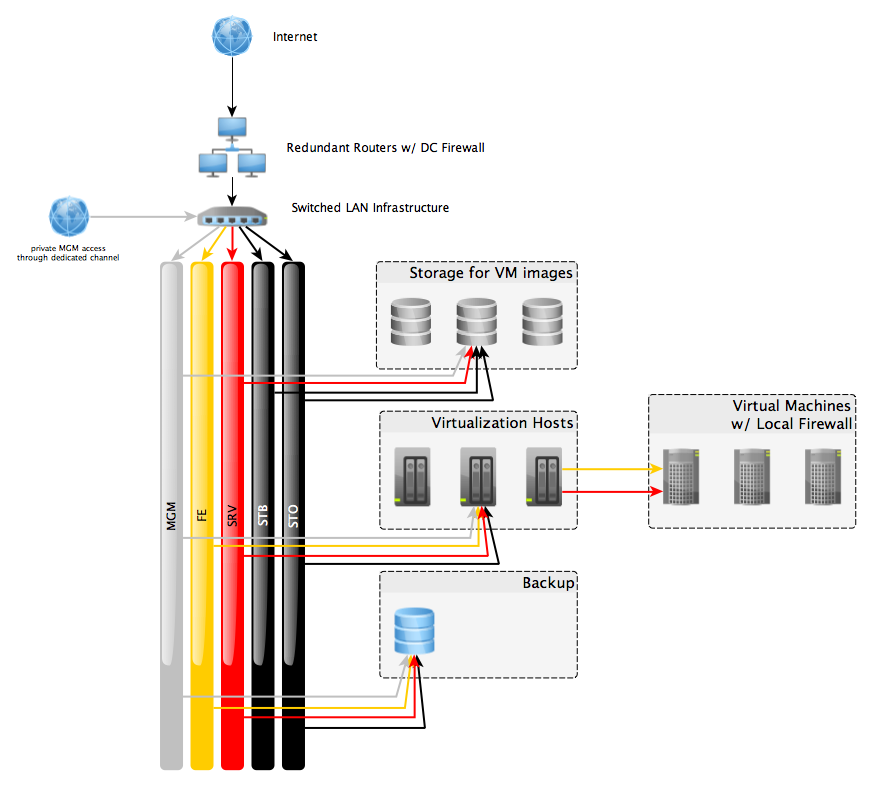
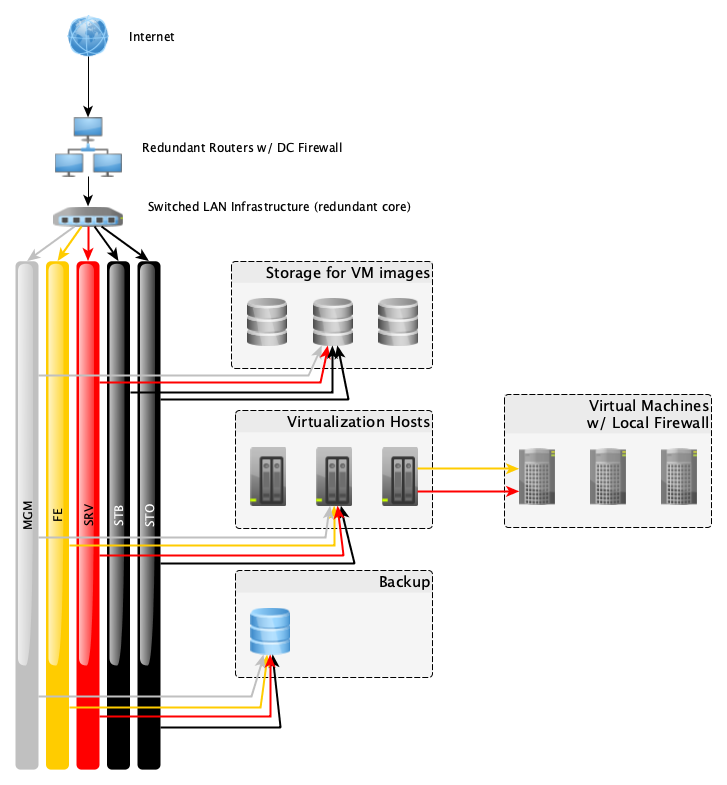
Update network overview documentation to fit reality.

Changed region(s): [[0.0, 0.1223, 0.9986, 1.0], [0.1816, 0.0, 0.3631, 0.0917], [0.0908, 0.0, 0.1513, 0.0917]]

diff --git a/src/guide/networking/networking.rst b/src/guide/networking/networking.rst
@@ -6,9 +6,11 @@ Overview
 Physical networks
 -----------------
 
-The physical network is implemented with Gigabit Ethernet switches. Prevalently
-they are HP ProCurve 2810, slowly being replaced by HP ProCurve 2530 in some
-cases.
+The physical network in our public datacenter is implemented with Extreme VDX
+switches in a leaf-spine architecture with a redundant (n=2) spine. We leverage
+1G/10G ports for VM connectivity, 10G ports for storage and redundant 2x40G
+connectivity in our backbone. The datacenter uplink from our routers uses 10G
+connectivity.
 
 For traffic separation we leverage VLANs and provide physical servers with a
 dedicated link for each VLAN that it needs access to.
